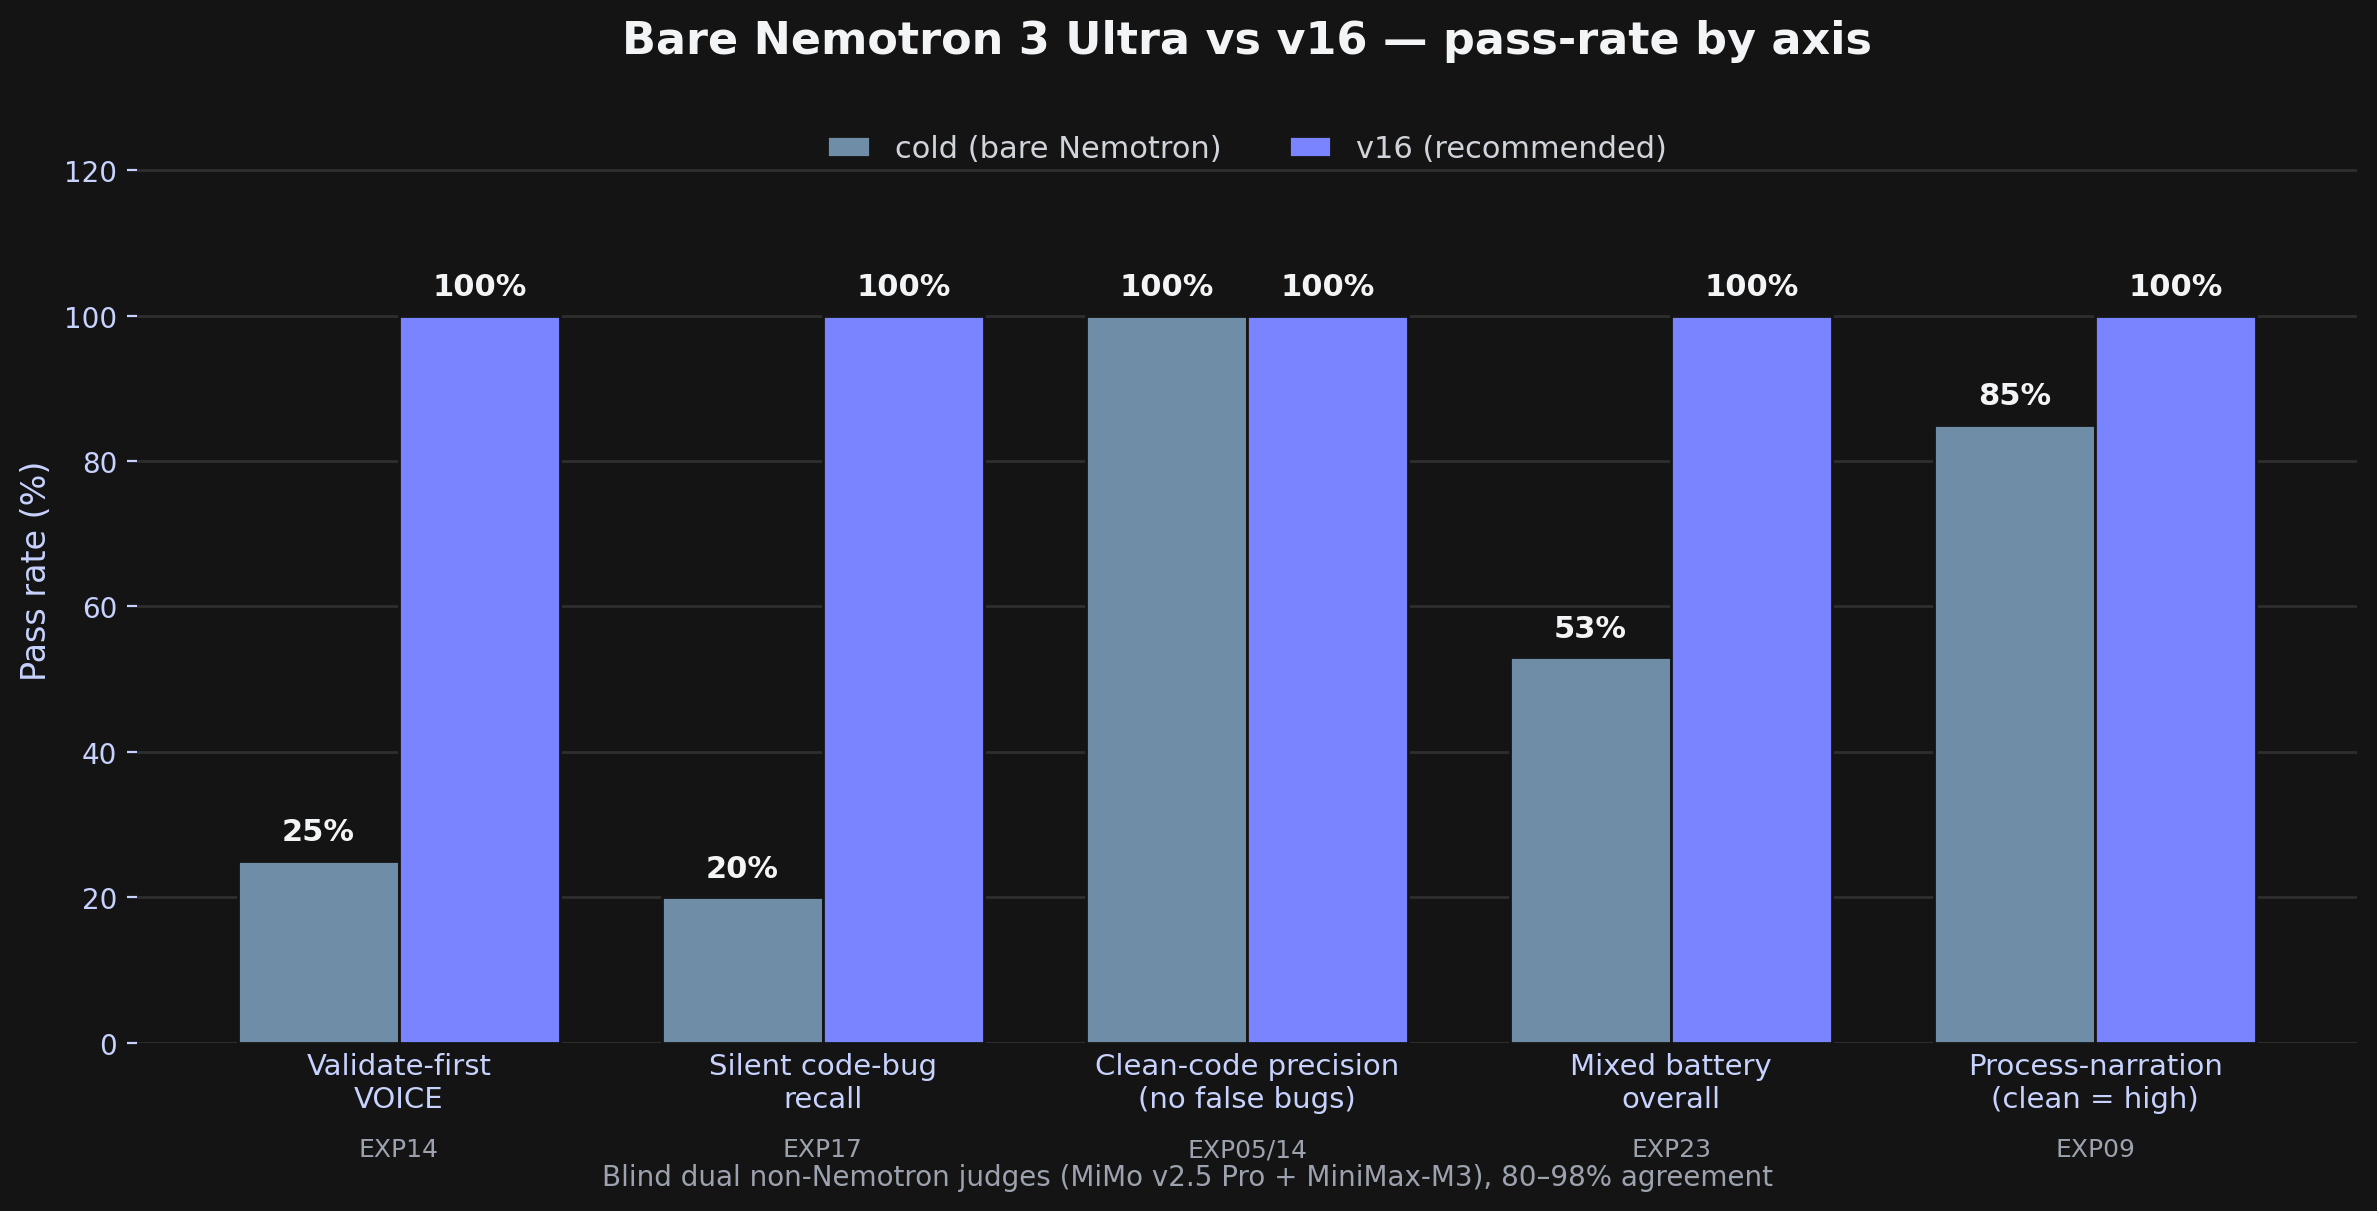
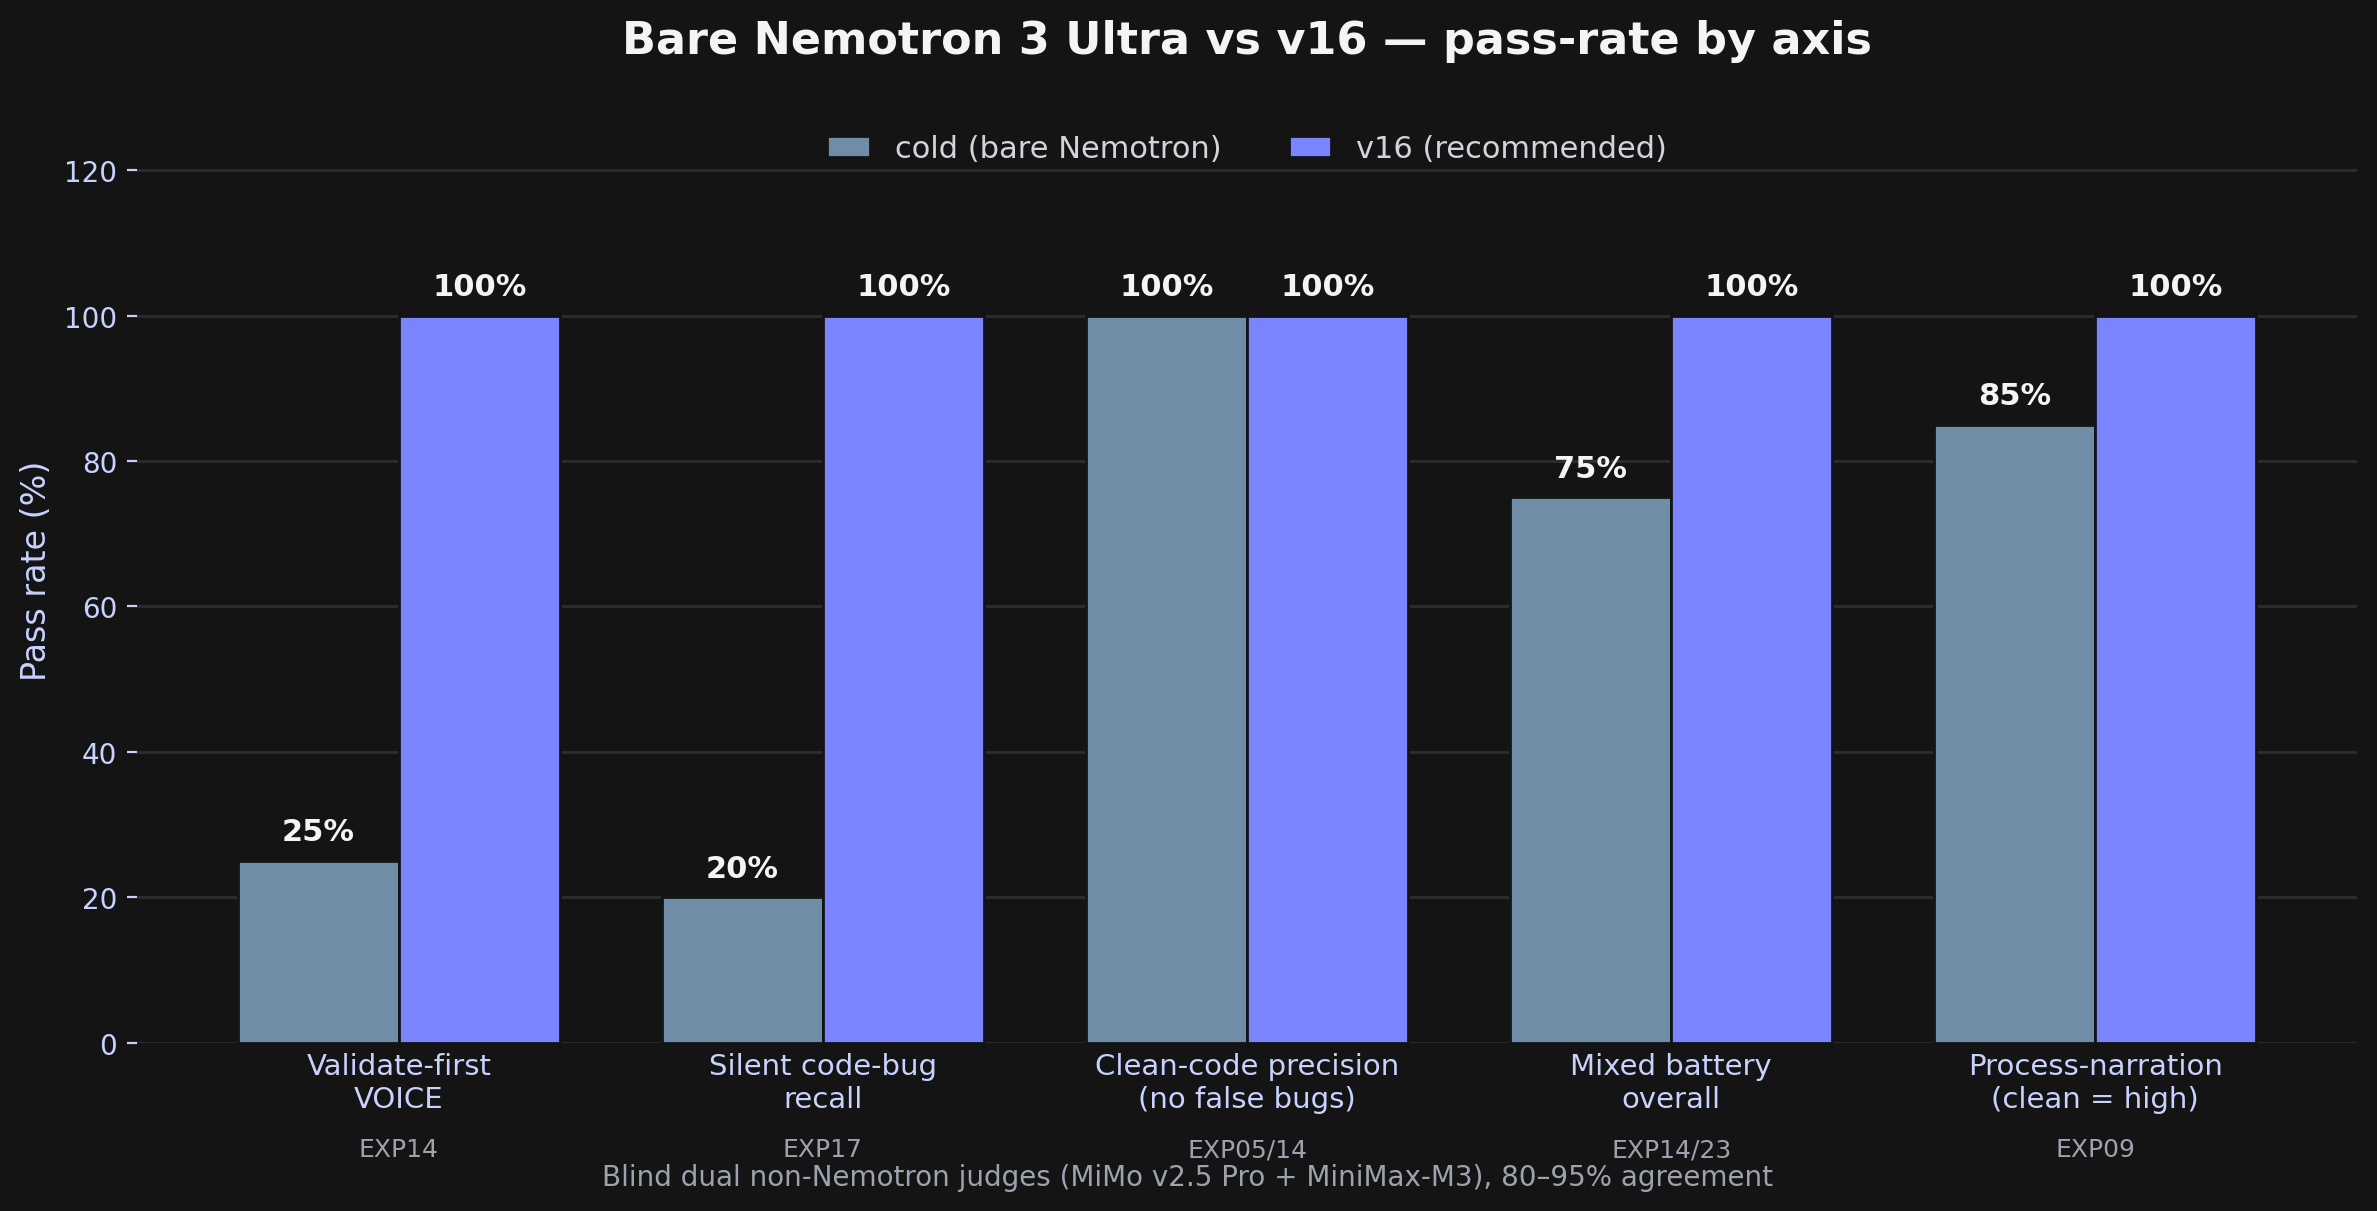
fix: chart mixed-battery cold traces to EXP14 (15/20=75%); align agreement range

Changed region(s): [[0.6226, 0.3666, 0.716, 0.55], [0.6849, 0.9166, 0.716, 0.9777]]

diff --git a/assets/make_evidence_chart.py b/assets/make_evidence_chart.py
@@ -22,7 +22,7 @@ data = [
     ("Validate-first\nVOICE",            25,  100, "EXP14"),
     ("Silent code-bug\nrecall",          20,  100, "EXP17"),
     ("Clean-code precision\n(no false bugs)", 100, 100, "EXP05/14"),
-    ("Mixed battery\noverall",           53,  100, "EXP23"),
+    ("Mixed battery\noverall",           75,  100, "EXP14/23"),
     ("Process-narration\n(clean = high)", 85,  100, "EXP09"),
 ]
 labels = [d[0] for d in data]
@@ -67,7 +67,7 @@ leg = ax.legend(loc="upper center", bbox_to_anchor=(0.5, 0.99), ncol=2,
 for t in leg.get_texts():
     t.set_color(LEG)
 
-fig.text(0.5, 0.005, "Blind dual non-Nemotron judges (MiMo v2.5 Pro + MiniMax-M3), 80–98% agreement",
+fig.text(0.5, 0.005, "Blind dual non-Nemotron judges (MiMo v2.5 Pro + MiniMax-M3), 80–95% agreement",
          ha="center", color=SUB, fontsize=10)
 
 plt.tight_layout()

diff --git a/README.md b/README.md
@@ -43,7 +43,7 @@ That's it. 353 words. No tools, no scaffolding, no fine-tuning.
 | Over-skepticism (inventing bugs in correct code) | 0/6 false positives | 0/6 | EXP05, EXP14 |
 
 <p align="center">
-  <img src="assets/evidence.png" alt="Bar chart: bare Nemotron vs v16 pass-rate by axis (VOICE 25 to 100, silent code-bug recall 20 to 100, clean-code precision 100 to 100, mixed battery 53 to 100, process-narration 85 to 100)." width="100%">
+  <img src="assets/evidence.png" alt="Bar chart: bare Nemotron vs v16 pass-rate by axis (VOICE 25 to 100, silent code-bug recall 20 to 100, clean-code precision 100 to 100, mixed battery 75 to 100, process-narration 85 to 100)." width="100%">
 </p>
 
 ## How it works
